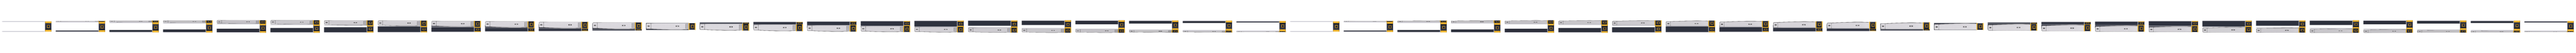
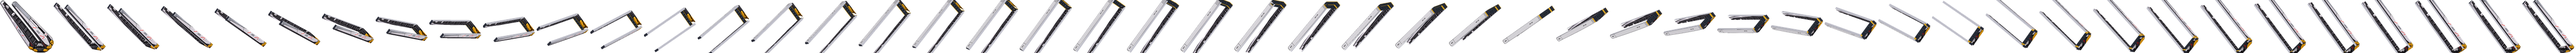
Build latest funnel cursor ZIP v1.5.0: turn directly from normal upper-left pointer

Changed region(s): [[0.0, 0.0, 1.0, 1.0], [0.25, 0.8125, 0.2812, 0.9688], [0.75, 0.0625, 0.7812, 0.1875]]

diff --git a/tools/funnel-cursor-switcher/build_fin_idle_art.py b/tools/funnel-cursor-switcher/build_fin_idle_art.py
@@ -1,4 +1,4 @@
-"""Render a rigid C-shaped fin funnel using the approved launch textures."""
+"""Rotate the normal upper-left fin cursor as two rigid parallel panels."""
 import math
 from functools import lru_cache
 from pathlib import Path
@@ -20,41 +20,102 @@ def textures():
             image.crop((0, 1180, image.width, image.height)),
             image.crop((0, 956, image.width, 1180)))
 
+@lru_cache(maxsize=1)
+def normal_cursor():
+    import struct
+    data = (ROOT / 'カーソル/ファンネル/フィンファンネル.cur').read_bytes()
+    count = struct.unpack_from('<H', data, 4)[0]
+    entries = [struct.unpack_from('<BBBBHHII', data, 6 + i * 16) for i in range(count)]
+    entry = max(entries, key=lambda e: e[0] or 256)
+    width, height, offset = entry[0] or 256, entry[1] or 256, entry[-1]
+    return Image.frombytes('RGBA', (width, height),
+        data[offset + 40:offset + 40 + width * height * 4], 'raw', 'BGRA', 0, -1)
+
+
+def add(*vectors):
+    return tuple(sum(parts) for parts in zip(*vectors))
+
+
+def mul(vector, factor):
+    return tuple(value * factor for value in vector)
+
+
+def material_from_cursor(points, shift=(0, 0), size=(96, 512)):
+    # Project the existing artwork onto a real planar surface in its initial
+    # pose. Its markings and shading are not replaced by a new side drawing.
+    p, q, _, r = points
+    coefficients = ((q[0] - p[0]) / size[0], (r[0] - p[0]) / size[1], p[0] + shift[0],
+                    (q[1] - p[1]) / size[0], (r[1] - p[1]) / size[1], p[1] + shift[1])
+    return normal_cursor().transform(size, Image.Transform.AFFINE, coefficients,
+                                     Image.Resampling.BICUBIC)
+
+
+@lru_cache(maxsize=1)
 def model():
-    upper, lower, hinge = textures()
-    length, width, gap, thick = 950.0, 154.0, 224.0, 12.0
-    left, right = -length / 2, length / 2
+    # The two parallel panels are fitted to the NORMAL upper-left cursor.
+    # All three basis vectors are perpendicular in 3D. This reproduces its
+    # initial diagonal projection without rotating the sprite into a side pose.
+    length = (178.0, 218.0, 124.2367592743977)
+    separation = (52.0, 0.0, -74.5029083677332)
+    width = (-14.0, 17.0, -9.7716654177742)
+    normal = mul(separation, 1 / math.sqrt(sum(c*c for c in separation)))
+    origin = (15.0, 8.0, -36.0)
     faces = []
-    def face(points, normal, color=None, texture=None, uv=None):
-        faces.append((points, normal, color, texture, uv))
-    for center, outer, texture in ((-gap / 2, -1, upper), (gap / 2, 1, lower)):
-        top, bottom = center - thick / 2, center + thick / 2
-        for y, normal in ((top, (0, -1, 0)), (bottom, (0, 1, 0))):
-            points = [(left, y, -width / 2), (right, y, -width / 2),
-                      (right, y, width / 2), (left, y, width / 2)]
-            if normal[1] == outer:
-                uv = ([points[0], points[3], points[2], points[1]] if outer < 0 else
-                      [points[1], points[2], points[3], points[0]])
-                face(points, normal, texture=texture, uv=uv)
+    def face(points, outward, texture=None, color=None):
+        faces.append((points, outward, color, texture, points))
+    panels = []
+    for index in range(2):
+        tip = add(origin, mul(separation, index))
+        points = [tip, add(tip, width), add(tip, width, length), add(tip, length)]
+        panels.append(points)
+        # At the starting angle the left inner face is navy; the right
+        # outer face is white. The supplied photograph shows this distinction.
+        for direction in (-1, 1):
+            surface = [add(p, mul(normal, direction * 5.0)) for p in points]
+            outside = direction == (-1 if index == 0 else 1)
+            if direction == 1:
+                texture = material_from_cursor(surface)
+            elif outside:
+                texture = textures()[0]
             else:
-                face(points, normal, color=(48, 52, 65))
-        for z, normal in ((-width / 2, (0, 0, -1)), (width / 2, (0, 0, 1))):
-            face([(left, top, z), (right, top, z), (right, bottom, z), (left, bottom, z)],
-                 normal, color=(202, 201, 209))
-    top, bottom = -gap / 2 - thick / 2, gap / 2 + thick / 2
-    for z, normal in ((-width / 2, (0, 0, -1)), (width / 2, (0, 0, 1))):
-        points = [(right, top, z), (right + width, top, z),
-                  (right + width, bottom, z), (right, bottom, z)]
-        face(points, normal, texture=hinge, uv=points)
-    for y, normal in ((top, (0, -1, 0)), (bottom, (0, 1, 0))):
-        points = [(right, y, -width / 2), (right + width, y, -width / 2),
-                  (right + width, y, width / 2), (right, y, width / 2)]
-        face(points, normal, texture=hinge.crop((0, 41, hinge.width, hinge.height - 42)), uv=points)
-        # Small gold end trims around a navy core, not a solid gold block.
-        for edge in (right, right + width - 16):
-            face([(edge, y, -width / 2), (edge + 16, y, -width / 2),
-                  (edge + 16, y, width / 2), (edge, y, width / 2)], normal, color=(222, 168, 39))
-    return faces, length + width, width / 2
+                texture = material_from_cursor(surface, shift=(-52, 0))
+            face(surface, mul(normal, direction), texture=texture)
+        # Thin panel edges, rather than a solid white box.
+        for edge in range(4):
+            a, b = points[edge], points[(edge + 1) % 4]
+            edge_vector = tuple(b[i] - a[i] for i in range(3))
+            outward = (edge_vector[1] * normal[2] - edge_vector[2] * normal[1],
+                       edge_vector[2] * normal[0] - edge_vector[0] * normal[2],
+                       edge_vector[0] * normal[1] - edge_vector[1] * normal[0])
+            norm = math.sqrt(sum(c*c for c in outward))
+            outward = mul(outward, 1 / norm)
+            quad = [add(a, mul(normal, -5.0)), add(a, mul(normal, 5.0)),
+                    add(b, mul(normal, 5.0)), add(b, mul(normal, -5.0))]
+            face(quad, outward, color=(196, 196, 206) if edge in (1, 3) else (42, 45, 57))
+    # A short connecting hinge at the lower-right of the unchanged initial pose.
+    a = add(origin, mul(length, .95))
+    bridge_length = mul(length, .075)
+    box = [a, add(a, separation), add(a, separation, width), add(a, width)]
+    end = [add(p, bridge_length) for p in box]
+    for quad in (box, list(reversed(end)),
+                 *[[box[i], end[i], end[(i+1)%4], box[(i+1)%4]] for i in range(4)]):
+        u = tuple(quad[1][i]-quad[0][i] for i in range(3))
+        v = tuple(quad[3][i]-quad[0][i] for i in range(3))
+        n = (u[1]*v[2]-u[2]*v[1], u[2]*v[0]-u[0]*v[2], u[0]*v[1]-u[1]*v[0])
+        magnitude = math.sqrt(sum(c*c for c in n))
+        n = mul(n, 1/magnitude)
+        if n[2] < 0:
+            texture = material_from_cursor(quad)
+        else:
+            texture = Image.new('RGBA', (128, 64), (37, 42, 52, 255))
+            draw = ImageDraw.Draw(texture)
+            draw.rectangle((0, 0, 10, 63), fill=(218, 166, 39))
+            draw.rectangle((117, 0, 127, 63), fill=(218, 166, 39))
+            draw.rectangle((40, 13, 87, 51), fill=(23, 29, 37), outline=(72, 80, 92), width=3)
+            for y in (23, 32, 41):
+                draw.line((48, y, 79, y), fill=(91, 98, 109), width=2)
+        face(quad, n, texture=texture, color=(48, 49, 57))
+    return faces
 
 def paint_texture(canvas, texture, corners, brightness):
     p, q, _, r = corners
@@ -71,31 +132,34 @@ def paint_texture(canvas, texture, corners, brightness):
     canvas.alpha_composite(projected)
 
 def render(step, side=96):
-    supersample = 3
-    target = side * supersample
+    if step % STEPS == 0:
+        if side == 32:
+            with Image.open(ROOT / 'カーソル/ファンネル/フィンファンネル.png') as image:
+                return image.convert('RGBA')
+        return normal_cursor().resize((side, side), Image.Resampling.LANCZOS)
+    target = side * 3
     canvas = Image.new('RGBA', (target, target))
-    faces, span, center_x = model()
     angle = step / STEPS * math.tau
     cosine, sine = math.cos(angle), math.sin(angle)
-    scale = target * 0.92 / span
-    def rotate(point):
+    def rotate(point, is_normal=False):
         x, y, z = point
+        if not is_normal:
+            y -= 128
         return x, y * cosine - z * sine, y * sine + z * cosine
     def project(point):
         x, y, _ = rotate(point)
-        return target / 2 + (x - center_x) * scale, target / 2 + y * scale
+        return x / 256 * target, (128 + y) / 256 * target
     visible = []
-    for points, normal, color, texture, uv in faces:
-        direction = rotate(normal)
+    for points, normal, color, texture, uv in model():
+        direction = rotate(normal, True)
         if direction[2] >= -1e-7:
             continue
         depth = sum(rotate(p)[2] for p in points) / len(points)
         visible.append((depth, points, direction, color, texture, uv))
-    # Opaque surfaces occlude the far rail. No pose crossfade or deformation.
     for _, points, normal, color, texture, uv in sorted(visible, key=lambda item: item[0], reverse=True):
-        shade = 0.78 + 0.22 * -normal[2]
+        shade = 0.86 + 0.14 * -normal[2]
         if texture is not None:
-            paint_texture(canvas, texture, [project(p) for p in uv], shade)
+            paint_texture(canvas, texture, [project(p) for p in uv], min(shade, 1))
         else:
             ImageDraw.Draw(canvas).polygon([project(p) for p in points],
                 fill=tuple(round(c * shade) for c in color) + (255,))

diff --git a/tools/funnel-cursor-switcher/test_idle_motion.py b/tools/funnel-cursor-switcher/test_idle_motion.py
@@ -38,14 +38,19 @@ class IdleMotion(unittest.TestCase):
         frames = read_turntable(sheet)
         self.assertEqual(len(frames), STEPS)
         widths = [im.getchannel("A").point(lambda a: 255 if a > 144 else 0).getbbox() for im in frames]
-        self.assertLessEqual(max(b[2] - b[0] for b in widths) - min(b[2] - b[0] for b in widths), 2)
-        # Horizontal roll keeps the rail length fixed. The C gap is open in
-        # profile; a broad white plate faces the viewer at each quarter turn.
-        self.assertLess(frames[0].getpixel((32, 48))[3], 32)
-        for index in (STEPS // 4, 3 * STEPS // 4):
-            r, g, b, a = frames[index].getpixel((32, 48))
-            self.assertGreater(a, 200)
-            self.assertGreater(min(r, g, b), 150)
+        self.assertLessEqual(max(b[2] - b[0] for b in widths) - min(b[2] - b[0] for b in widths), 5)
+        # Enter from the actual upper-left pointer, including its original
+        # placement. Screen-X rotation preserves the horizontal coordinates.
+        original = load_sprite(CURSOR)
+        self.assertEqual(turn_frame(sheet, 0).tobytes(), original.tobytes())
+        # At a half turn its opening has moved from above to below the hinge;
+        # a preliminary in-plane rotation would fail the original-pose check.
+        for frame, top_open in ((frames[0], True), (frames[STEPS // 2], False)):
+            alpha = frame.getchannel('A')
+            tip = alpha.crop((0, 0 if top_open else 84, 16, 12 if top_open else 96))
+            opposite = alpha.crop((0, 84 if top_open else 0, 16, 96 if top_open else 12))
+            self.assertIsNotNone(tip.getbbox())
+            self.assertIsNone(opposite.getbbox())
         self.assertNotEqual(frames[0].tobytes(), frames[STEPS // 4].tobytes())
         self.assertEqual(turn_frame(sheet, 0).tobytes(), turn_frame(sheet, STEPS).tobytes())
         self.assertIsNone(idle_sheet(CURSOR.with_name("νガンダムHWS.cur")))

diff --git a/tools/funnel-cursor-switcher/render_idle_preview.py b/tools/funnel-cursor-switcher/render_idle_preview.py
@@ -1,4 +1,4 @@
-"""Preview the original-texture rigid horizontal roll and actual cursor size."""
+"""Preview the normal upper-left cursor turning around screen X."""
 from pathlib import Path
 from PIL import Image, ImageDraw, ImageFont
 from build_fin_idle_art import render as render_model
@@ -19,12 +19,12 @@ def render():
     for step in range(STEPS):
         canvas = Image.new('RGBA', (600, 320), '#19232e')
         draw = ImageDraw.Draw(canvas)
-        draw.text((18, 12), '正面原画の形を保持／横軸で上と下が入れ替わる', font=title, fill='white')
+        draw.text((18, 12), '通常カーソルの左上向きから、そのまま横軸回転', font=title, fill='white')
         draw.text((164, 62), '拡大', font=small, fill='#d7e3ee')
         draw.text((448, 62), '実際のサイズ', font=small, fill='#d7e3ee')
-        canvas.alpha_composite(render_model(step, 384), (12, -22))
+        canvas.alpha_composite(render_model(step, 208), (108, 64))
         canvas.alpha_composite(turn_frame(sheet, step, 32), (488, 147))
-        draw.text((20, 270), '白板が手前では、広い白い面が見えます', font=small, fill='white')
+        draw.text((20, 286), '開始コマは通常カーソルと同じ絵・同じ位置です', font=small, fill='white')
         frames.append(canvas.convert('RGB'))
     path = ROOT / 'fin-idle-preview.gif'
     frames[0].save(path, save_all=True, append_images=frames[1:], duration=50, loop=0)

diff --git a/tools/funnel-cursor-switcher/idle_motion.py b/tools/funnel-cursor-switcher/idle_motion.py
@@ -37,6 +37,10 @@ def read_turntable(path):
 @lru_cache(maxsize=384)
 def turn_frame(path, step, size=32):
     poses = read_turntable(path)
+    if step % STEPS == 0 and size == 32:
+        original = path.parent.parent.parent / 'カーソル/ファンネル/フィンファンネル.png'
+        with Image.open(original) as image:
+            return image.convert('RGBA')
     return poses[step % STEPS].resize((size, size), Image.Resampling.LANCZOS)
 
 

diff --git a/tools/funnel-cursor-switcher/AGENTS.md b/tools/funnel-cursor-switcher/AGENTS.md
@@ -11,3 +11,5 @@
 ユーザーは2026-11-23に、フィンファンネルの待機横回転を「横軸を中心に、上の板と下の板が入れ替わる回転」と指定し、「これ以降作るやつも同じ軸で回転する」と指示しました。以降の機体も画面の左右方向の横軸（X軸）で統一します。縦軸まわりに正面・側面・裏面を左右へ切り替える回転や、画面上での平面的な回転へ置き換えないでください。
 
 ポインター本体が対象です。機体は一種類ずつ作成し、フィンファンネルはコの字の状態を保ったまま上側・下側が入れ替わるように回します。凍結機体への追加は従来どおり行いません。
+
+開始姿勢は通常カーソルの左上向きです。ユーザーは「通常マウスカーソルの左上向きの絵からそのまま回転して欲しい」と指定しました。横向きの飛行原画や別のコの字の絵へ置き換えてから回転させないでください。参考写真は白い外板・濃紺の内面・短いヒンジの構造を確認するための資料です。

diff --git a/tools/funnel-cursor-switcher/開発対象.md b/tools/funnel-cursor-switcher/開発対象.md
@@ -16,6 +16,8 @@
 
 回転軸は全機種共通で、画面の左右方向に通る横軸（X軸）です。フィンファンネルではコの字の開く左右方向を変えず、上の板と下の板が入れ替わります。ユーザーの「これ以降作るやつも同じ軸」の指定を引き継ぎ、縦軸で左右へ向きを変える回転にはしません。
 
+開始姿勢は、通常マウスカーソルの左上向きの絵のままです。横向きの別原画へ切り替えてから回転させません。参考写真は姿勢の置き換えではなく、白い外板・濃紺の内面・ヒンジの立体構造を確認するために使います。
+
 ## 凍結中の13種
 
 以下は削除せず、現在の素材・演出コード・装備別設定を保管します。ユーザーが再開を指定するまで、追加改修の対象には含めません。
